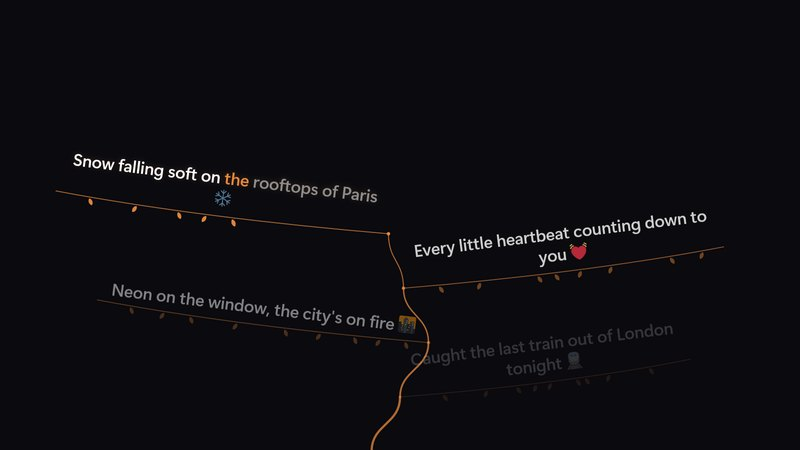
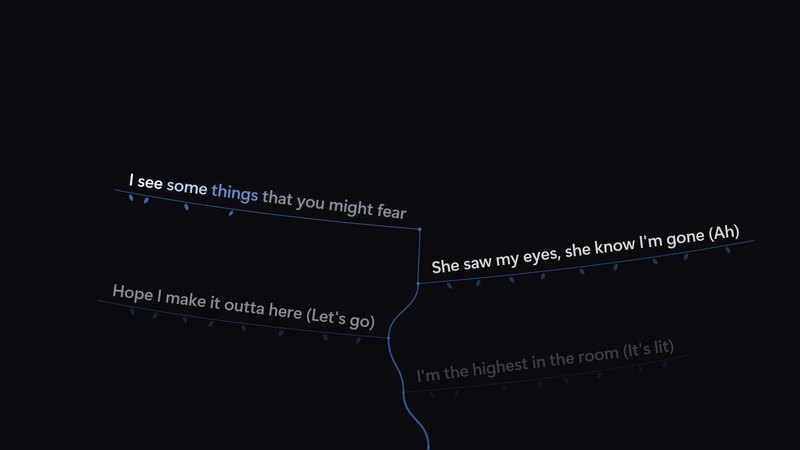
docs: real lyric screenshots from one play of HIGHEST IN THE ROOM
Replace the made-up demo lyrics in the style shots with a real song:
Travis Scott - HIGHEST IN THE ROOM, its real synced lyrics from LRCLIB
and its real cover art, so the palette each style shows is the one the
app actually extracts from that cover.

diff --git a/README.md b/README.md
@@ -212,6 +212,8 @@ When you take a screenshot, **Copy text** reads the words in it and copies them,
 
 Lyrics light up word by word, in time with the song, and take their colours from the album cover. Open them from the tray, the island or settings. With a second monitor they can run full screen there while you work on the first.
 
+Every shot below is the same play of **Travis Scott — HIGHEST IN THE ROOM**, caught at a different second of the track. The blues come out of that cover on their own.
+
 | | |
 |:-:|:-:|
 | <img src="assets/styles/aura.jpg" alt="Aura"><br>**Aura** | <img src="assets/styles/neon.jpg" alt="Neon"><br>**Neon** |
